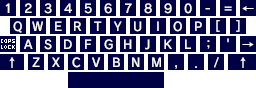
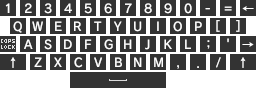
Change color scheme to gray

diff --git a/arm9/source/keyboard.cpp b/arm9/source/keyboard.cpp
@@ -16,7 +16,7 @@ Key keys[] = {
 	{"1", 0, 0}, {"2", 20, 0}, {"3", 40, 0}, {"4", 60, 0}, {"5", 80, 0}, {"6", 100, 0}, {"7", 120, 0}, {"8", 140, 0}, {"9", 160, 0}, {"0", 180, 0}, {"-", 200, 0}, {"=", 220, 0},
 	{"q", 10, 18}, {"w", 30, 18}, {"e", 50, 18}, {"r", 70, 18}, {"t", 90, 18}, {"y", 110, 18}, {"u", 130, 18}, {"i", 150, 18}, {"o", 170, 18}, {"p", 190, 18}, {"[", 210, 18}, {"]", 230, 18},
 	{"a", 20, 36}, {"s", 40, 36}, {"d", 60, 36}, {"f", 80, 36}, {"g", 100, 36}, {"h", 120, 36}, {"j", 140, 36}, {"k", 160, 36}, {"l", 180, 36}, {";", 200, 36}, {"'", 220, 36},
-	{"z", 28, 54}, {"x", 48, 54}, {"c", 68, 54}, {"v", 88, 54}, {"b", 108, 54}, {"n", 128, 54}, {"m", 148, 54}, {",", 168, 54}, {".", 188, 54}, {"/", 208, 54},
+	{"z", 30, 54}, {"x", 50, 54}, {"c", 70, 54}, {"v", 90, 54}, {"b", 110, 54}, {"n", 130, 54}, {"m", 150, 54}, {",", 170, 54}, {".", 190, 54}, {"/", 210, 54},
 
 };
 Key modifierKeys[] = {
@@ -24,19 +24,19 @@ Key modifierKeys[] = {
 	{"caps", 0, 36},	// Caps Lock
 	{"entr", 240, 36},	// Enter
 	{"lsft", 0, 54},	// Left Shift
-	{"rsft", 228, 54},	// Right Shift
+	{"rsft", 230, 54},	// Right Shift
 };
 
 std::string Input::getLine() { return Input::getLine(-1); }
 
 std::string Input::getLine(uint maxLength) {
-	// Hide bottom sprites below the keyboard
+	// Hide sprites below the keyboard
 	for(int i=12;i<30;i++) {
 		setSpriteVisibility(i, false);
 	}
 	updateOam();
 
-	drawRectangle(0, 192-keyboardData.height-16, 256, keyboardData.height+16, DARK_BLUE, false);
+	drawRectangle(0, 192-keyboardData.height-16, 256, keyboardData.height+16, DARKER_GRAY, false);
 	drawImage(0, 192-keyboardData.height, keyboardData.width, keyboardData.height, keyboard, false);
 	int hDown;
 	touchPosition touch;
@@ -53,12 +53,12 @@ std::string Input::getLine(uint maxLength) {
 			} else if(keyDownDelay == 0) {
 				keyDownDelay--;
 				drawImage(0, 192-keyboardData.height, keyboardData.width, keyboardData.height, keyboard, false);
-				if(caps) drawRectangle(modifierKeys[1].x, modifierKeys[1].y+(192-keyboardData.height), 16, 16, 0x8260, false);
+				if(caps) drawRectangle(modifierKeys[1].x, modifierKeys[1].y+(192-keyboardData.height), 16, 16, GRAY, false);
 			}
 		} while(!hDown);
 		if(keyDownDelay > 0) {
 			drawImage(0, 192-keyboardData.height, keyboardData.width, keyboardData.height, keyboard, false);
-			if(caps) drawRectangle(modifierKeys[1].x, modifierKeys[1].y+(192-keyboardData.height), 16, 16, 0x8006, false);
+			if(caps) drawRectangle(modifierKeys[1].x, modifierKeys[1].y+(192-keyboardData.height), 16, 16, GRAY, false);
 		}
 		keyDownDelay = 10;
 
@@ -68,7 +68,7 @@ std::string Input::getLine(uint maxLength) {
 				// Check if a regular key was pressed
 				for(uint i=0;i<(sizeof(keys)/sizeof(keys[0]));i++) {
 					if((touch.px > keys[i].x-2 && touch.px < keys[i].x+18) && (touch.py > keys[i].y+(192-keyboardData.height)-2 && touch.py < keys[i].y+18+(192-keyboardData.height))) {
-						drawRectangle(keys[i].x, keys[i].y+(192-keyboardData.height), 16, 16, 0x8006, false);
+						drawRectangle(keys[i].x, keys[i].y+(192-keyboardData.height), 16, 16, DARK_GRAY, false);
 						char c = keys[i].character[0];
 						string += (shift || caps ? toupper(c) : c);
 						shift = false;
@@ -77,9 +77,9 @@ std::string Input::getLine(uint maxLength) {
 					}
 				}
 				// Check if space was pressed
-				Key key = {" ", 68, 72};
+				Key key = {" ", 70, 72};
 				if((touch.px > key.x-2 && touch.px < key.x+100) && (touch.py > key.y+(192-keyboardData.height)-2 && touch.py < key.y+18+(192-keyboardData.height))) {
-					drawRectangle(key.x, key.y+(192-keyboardData.height), 98, 16, 0x8006, false);
+					drawRectangle(key.x, key.y+(192-keyboardData.height), 96, 16, DARK_GRAY, false);
 					string += key.character;
 					shift = false;
 					printText(string, 0, 192-keyboardData.height-16, false);
@@ -88,20 +88,20 @@ std::string Input::getLine(uint maxLength) {
 			// Check if a modifier key was pressed
 			for(uint i=0;i<(sizeof(modifierKeys)/sizeof(modifierKeys[0]));i++) {
 				if((touch.px > modifierKeys[i].x-2 && touch.px < modifierKeys[i].x+18) && (touch.py > modifierKeys[i].y+(192-keyboardData.height)-2 && touch.py < modifierKeys[i].y+18+(192-keyboardData.height))) {
-					drawRectangle(modifierKeys[i].x, modifierKeys[i].y+(192-keyboardData.height), 16, 16, 0x8006, false);
 					if(modifierKeys[i].character == "bksp") {
+						drawRectangle(modifierKeys[i].x, modifierKeys[i].y+(192-keyboardData.height), 16, 16, DARK_GRAY, false);
 						string = string.substr(0, string.length()-1);
-						drawRectangle(0, 192-keyboardData.height-16, 256, 16, DARK_BLUE, false);
+						drawRectangle(0, 192-keyboardData.height-16, 256, 16, DARKER_GRAY, false);
 						printText(string, 0, 192-keyboardData.height-16, false);
 					} else if(modifierKeys[i].character == "caps") {
 						caps = !caps;
-						if(caps) drawRectangle(modifierKeys[i].x, modifierKeys[i].y+(192-keyboardData.height), 16, 16, 0x8006, false);
+						if(caps) drawRectangle(modifierKeys[i].x, modifierKeys[i].y+(192-keyboardData.height), 16, 16, GRAY, false);
 					} else if(modifierKeys[i].character == "entr") {
 						enter = true;
 					} else if(modifierKeys[i].character == "lsft") {
 						shift = !shift;
 						if(shift) {
-							drawRectangle(modifierKeys[i].x, modifierKeys[i].y+(192-keyboardData.height), 24, 16, 0x8260, false);
+							drawRectangle(modifierKeys[i].x, modifierKeys[i].y+(192-keyboardData.height), 26, 16, GRAY, false);
 							keyDownDelay = -1;
 						} else {
 							keyDownDelay = 0;
@@ -109,7 +109,7 @@ std::string Input::getLine(uint maxLength) {
 					} else if(modifierKeys[i].character == "rsft") {
 						shift = !shift;
 						if(shift) {
-							drawRectangle(modifierKeys[i].x, modifierKeys[i].y+(192-keyboardData.height), 24, 16, 0x8260, false);
+							drawRectangle(modifierKeys[i].x, modifierKeys[i].y+(192-keyboardData.height), 26, 16, GRAY, false);
 							keyDownDelay = -1;
 						} else {
 							keyDownDelay = 0;
@@ -121,7 +121,7 @@ std::string Input::getLine(uint maxLength) {
 		}
 
 		if(hDown & KEY_START || enter) {
-			drawRectangle(0, 192-keyboardData.height-16, 256, keyboardData.height+16, DARK_BLUE, false);
+			drawRectangle(0, 192-keyboardData.height-16, 256, keyboardData.height+16, DARK_GRAY, false);
 			drawBox(false);
 			break;
 		}

diff --git a/arm9/source/fileBrowse.cpp b/arm9/source/fileBrowse.cpp
@@ -98,13 +98,13 @@ void getDirectoryContents(std::vector<DirEntry>& dirContents) {
 void showDirectoryContents(const std::vector<DirEntry>& dirContents, int startRow) {
 	getcwd(path, PATH_MAX);
 
-	// Clear screen
-	drawRectangle(0, 0, 256, 192, DARK_BLUE, false);
+	// Draw background
+	drawRectangle(0, 0, 256, 15, BLACK, false);
+	drawRectangle(0, 16, 256, 1, WHITE, false);
+	drawRectangle(0, 17, 256, 175, DARK_GRAY, false);
+	
 	// Print path
 	printText(path, 0, 0, false);
-
-	// Move to 2nd row and print line of dashes
-	drawRectangle(0, 16, 256, 1, WHITE, false);
 
 	// Print directory listing
 	for(int i=0;i < ((int)dirContents.size() - startRow) && i < ENTRIES_PER_SCREEN; i++) {
@@ -134,13 +134,13 @@ void driveSelect(void) {
 	int pressed = 0;
 
 	// Clear top screen
-	drawRectangle(0, 0, 256, 192, DARK_BLUE, true);
+	drawRectangle(0, 0, 256, 192, DARK_GRAY, true);
 
 	// Print version number
 	printText(verNumber, 256-getTextWidth(StringUtils::UTF8toUTF16(verNumber)), 176, true);
 
 	// Clear bottom screen
-	drawRectangle(0, 0, 256, 192, DARK_BLUE, false);
+	drawRectangle(0, 0, 256, 192, DARK_GRAY, false);
 
 	// Move to 2nd row and print line of dashes
 	drawRectangle(0, 16, 256, 1, WHITE, false);
@@ -151,7 +151,7 @@ void driveSelect(void) {
 
 	while(1) {
 		// Clear old cursors
-		drawRectangle(0, 17, 10, 175, DARK_BLUE, false);
+		drawRectangle(0, 17, 10, 175, DARK_GRAY, false);
 
 		// Show cursor
 		drawRectangle(3, driveSelect_cursorPosition*16+24, 4, 3, WHITE, false);
@@ -196,14 +196,14 @@ std::string browseForFile(const std::vector<std::string>& extensionList) {
 	showDirectoryContents(dirContents, screenOffset);
 
 	// Clear top screen
-	drawRectangle(0, 0, 256, 192, DARK_BLUE, true);
+	drawRectangle(0, 0, 256, 192, DARK_GRAY, true);
 
 	// Print version number
 	printText(verNumber, 256-getTextWidth(StringUtils::UTF8toUTF16(verNumber)), 176, true);
 
 	while(1) {
 		// Clear old cursors
-		drawRectangle(0, 17, 10, 175, DARK_BLUE, false);
+		drawRectangle(0, 17, 10, 175, DARK_GRAY, false);
 
 		// Show cursor
 		drawRectangle(3, (fileOffset-screenOffset)*16+24, 4, 3, WHITE, false);
@@ -246,8 +246,8 @@ std::string browseForFile(const std::vector<std::string>& extensionList) {
 				for(int i=ENTRIES_PER_SCREEN-1;i>0;i--) {
 					dmaCopyWords(0, BG_GFX_SUB+(((i*16)+1)*256), BG_GFX_SUB+((((i+1)*16)+1)*256), 16*256*2);
 				}
-				drawRectangle(10, 17, 246, 16, DARK_BLUE, false); // DARK_BLUE out previous top entry
-				drawRectangle(3, 40, 4, 3, DARK_BLUE, false); // DARK_BLUE out previous cursor mark
+				drawRectangle(10, 17, 246, 16, DARK_GRAY, false); // DARK_GRAY out previous top entry
+				drawRectangle(3, 40, 4, 3, DARK_GRAY, false); // DARK_GRAY out previous cursor mark
 
 				std::u16string name = StringUtils::UTF8toUTF16(dirContents[screenOffset].name);
 
@@ -269,8 +269,8 @@ std::string browseForFile(const std::vector<std::string>& extensionList) {
 				showDirectoryContents(dirContents, screenOffset);
 			} else {
 				dmaCopyWords(0, BG_GFX_SUB+(33*256), BG_GFX_SUB+(17*256), 160*256*2); // Copy old entries up
-				drawRectangle(10, ENTRIES_PER_SCREEN*16, 246, 16, DARK_BLUE, false); // DARK_BLUE out previous bottom entry
-				drawRectangle(3, 168, 4, 3, DARK_BLUE, false); // DARK_BLUE out previous cursor mark
+				drawRectangle(10, ENTRIES_PER_SCREEN*16, 246, 16, DARK_GRAY, false); // DARK_GRAY out previous bottom entry
+				drawRectangle(3, 168, 4, 3, DARK_GRAY, false); // DARK_GRAY out previous cursor mark
 				drawRectangle(3, (fileOffset-screenOffset)*16+24, 4, 3, WHITE, false); // Draw new cursor mark
 
 				std::u16string name = StringUtils::UTF8toUTF16(dirContents[screenOffset+ENTRIES_PER_SCREEN-1].name);
@@ -307,7 +307,7 @@ std::string browseForFile(const std::vector<std::string>& extensionList) {
 
 		if(pressed & KEY_B) {
 			// Go up a directory
-			if ((strcmp (path, "sd:/") == 0) || (strcmp (path, "fat:/") == 0)) {
+			if((strcmp (path, "sd:/") == 0) || (strcmp (path, "fat:/") == 0)) {
 				driveSelect();
 			} else {
 				chdir("..");

diff --git a/arm9/source/manager.cpp b/arm9/source/manager.cpp
@@ -82,8 +82,8 @@ void loadGraphics(void) {
 
 void drawBoxScreen(void) {
 	// Draws backgrounds
-	drawRectangle(0, 0, 256, 192, DARK_BLUE, true);
-	drawRectangle(0, 0, 256, 192, DARK_BLUE, false);
+	drawRectangle(0, 0, 256, 192, DARK_GRAY, true);
+	drawRectangle(0, 0, 256, 192, DARK_GRAY, false);
 
 	// Show bottom arrow
 	setSpriteVisibility(bottomArrowID, true);
@@ -148,7 +148,7 @@ void drawBox(bool top) {
 
 void drawPokemonInfo(std::shared_ptr<PKX> pkm) {
 	// Clear previous draw
-	drawRectangle(170, 0, 86, 192, DARK_BLUE, true);
+	drawRectangle(170, 0, 86, 192, DARK_GRAY, true);
 
 	// Draw dashed lines
 	drawImage(170, 30, stripesData.width, stripesData.height, stripes, true);
@@ -280,10 +280,11 @@ void drawXMenuButtons(int menuSelection) {
 }
 
 bool xMenu(void) {
-	// Hide all sprites
-	for(uint i=0;i<getSpriteAmount();i++) {
+	// Hide bottom sprites
+	for(uint i=0;i<30;i++) {
 		setSpriteVisibility(i, false);
 	}
+	setSpriteVisibility(bottomArrowID, false);
 	updateOam();
 	
 	// Draw background
@@ -322,8 +323,10 @@ bool xMenu(void) {
 			menuSelection = -1;
 		} else if(hDown & KEY_A) {
 			selectedOption = menuSelection;
-		} else if(hDown & KEY_B) {
-			drawBoxScreen();
+		} else if(hDown & KEY_B || hDown & KEY_X) {
+			if(!topScreen)	setSpriteVisibility(bottomArrowID, true);
+			drawRectangle(0, 0, 256, 192, DARK_GRAY, false);
+			drawBox(false);
 			break;
 		}
 
@@ -458,7 +461,7 @@ void manageBoxes(void) {
 			}
 		}
 
-		if(hDown & KEY_X) {
+		if(hDown & KEY_X && heldPokemon == -1) {
 			if(!xMenu())	break;
 		}
 

diff --git a/arm9/source/main.cpp b/arm9/source/main.cpp
@@ -40,8 +40,8 @@ int main(int argc, char **argv) {
 	loadFont();
 	Banks::init();
 
-	drawRectangle(0, 0, 256, 192, DARK_BLUE, true);
-	drawRectangle(0, 0, 256, 192, DARK_BLUE, false);
+	drawRectangle(0, 0, 256, 192, DARK_GRAY, true);
+	drawRectangle(0, 0, 256, 192, DARK_GRAY, false);
 	printTextCentered("Loading...", 32, 0, false);
 	
 	loadGraphics();

diff --git a/arm9/include/graphics/colors.h b/arm9/include/graphics/colors.h
@@ -5,6 +5,8 @@
 #define BLACK 0
 #define DARK_BLUE 0x800C
 #define DARK_GRAY 0x98C6
+#define DARKER_GRAY 0x9084
+#define GRAY 0xCE73
 #define LIGHT_BLUE 0x8019
 #define LIGHT_GRAY 0xE739
 #define TEAL 0x833f
